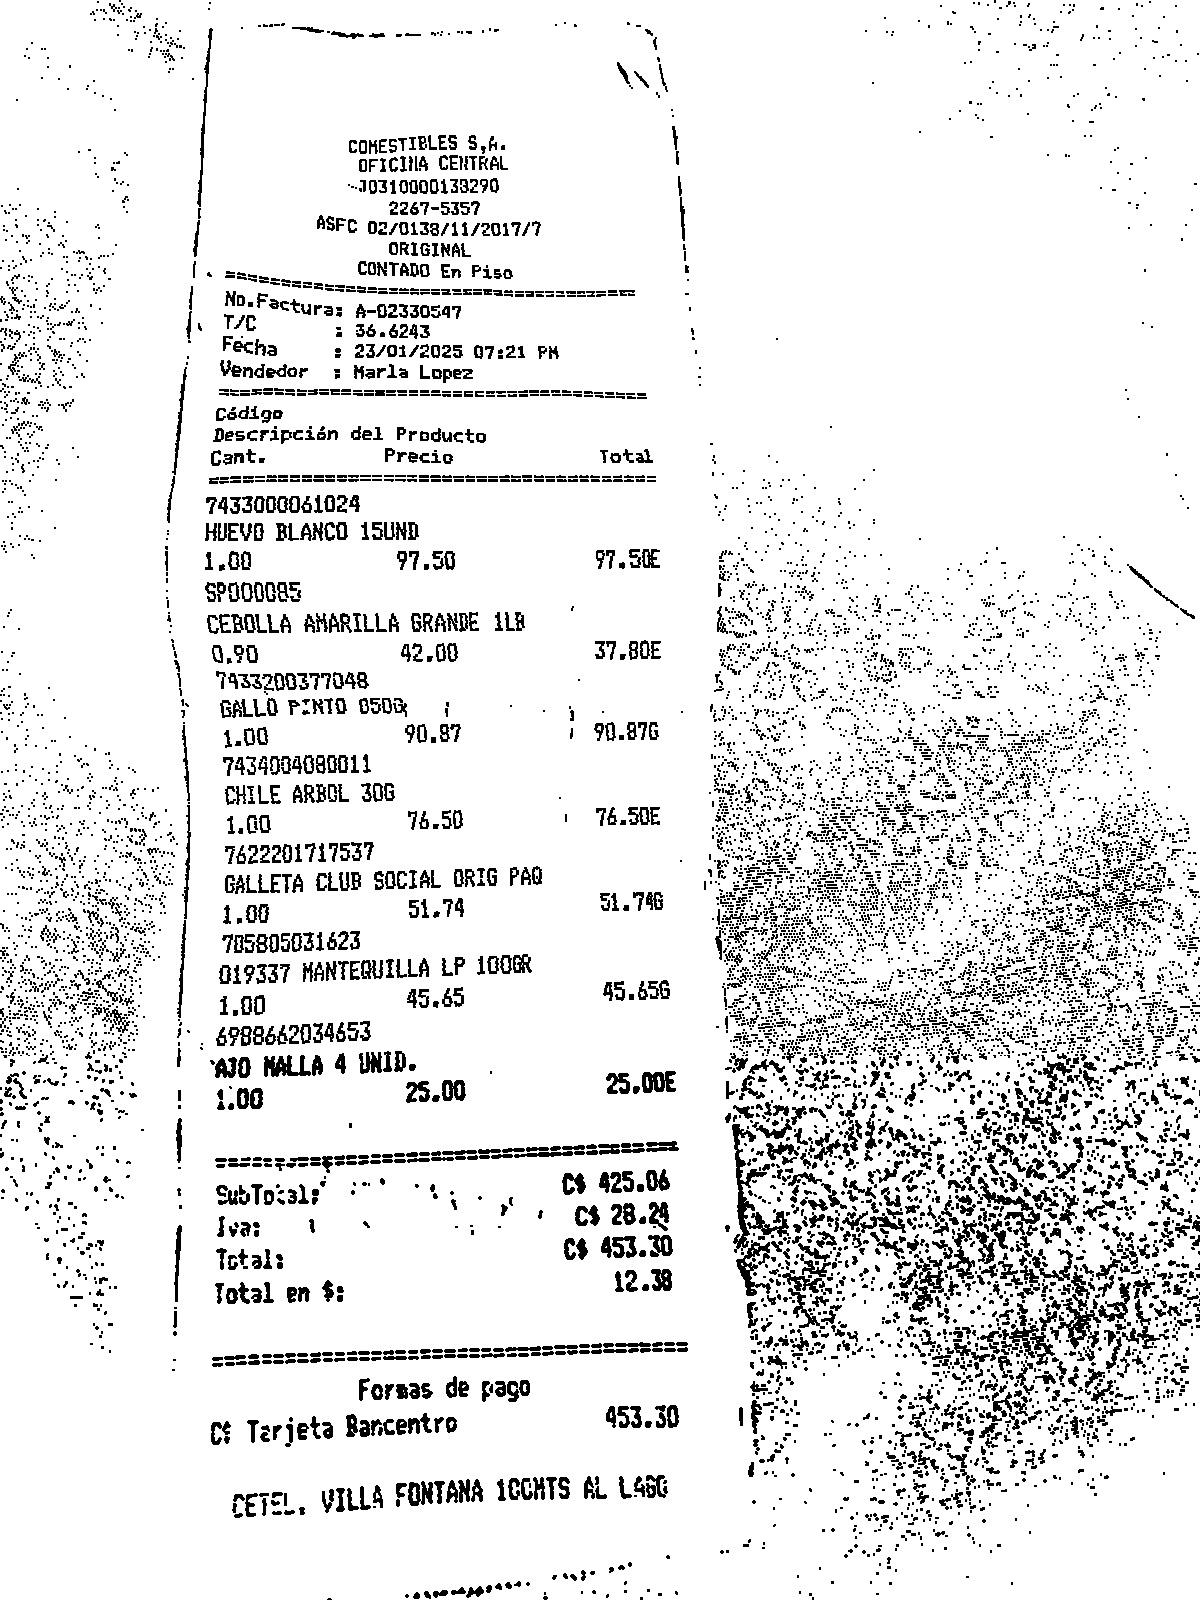
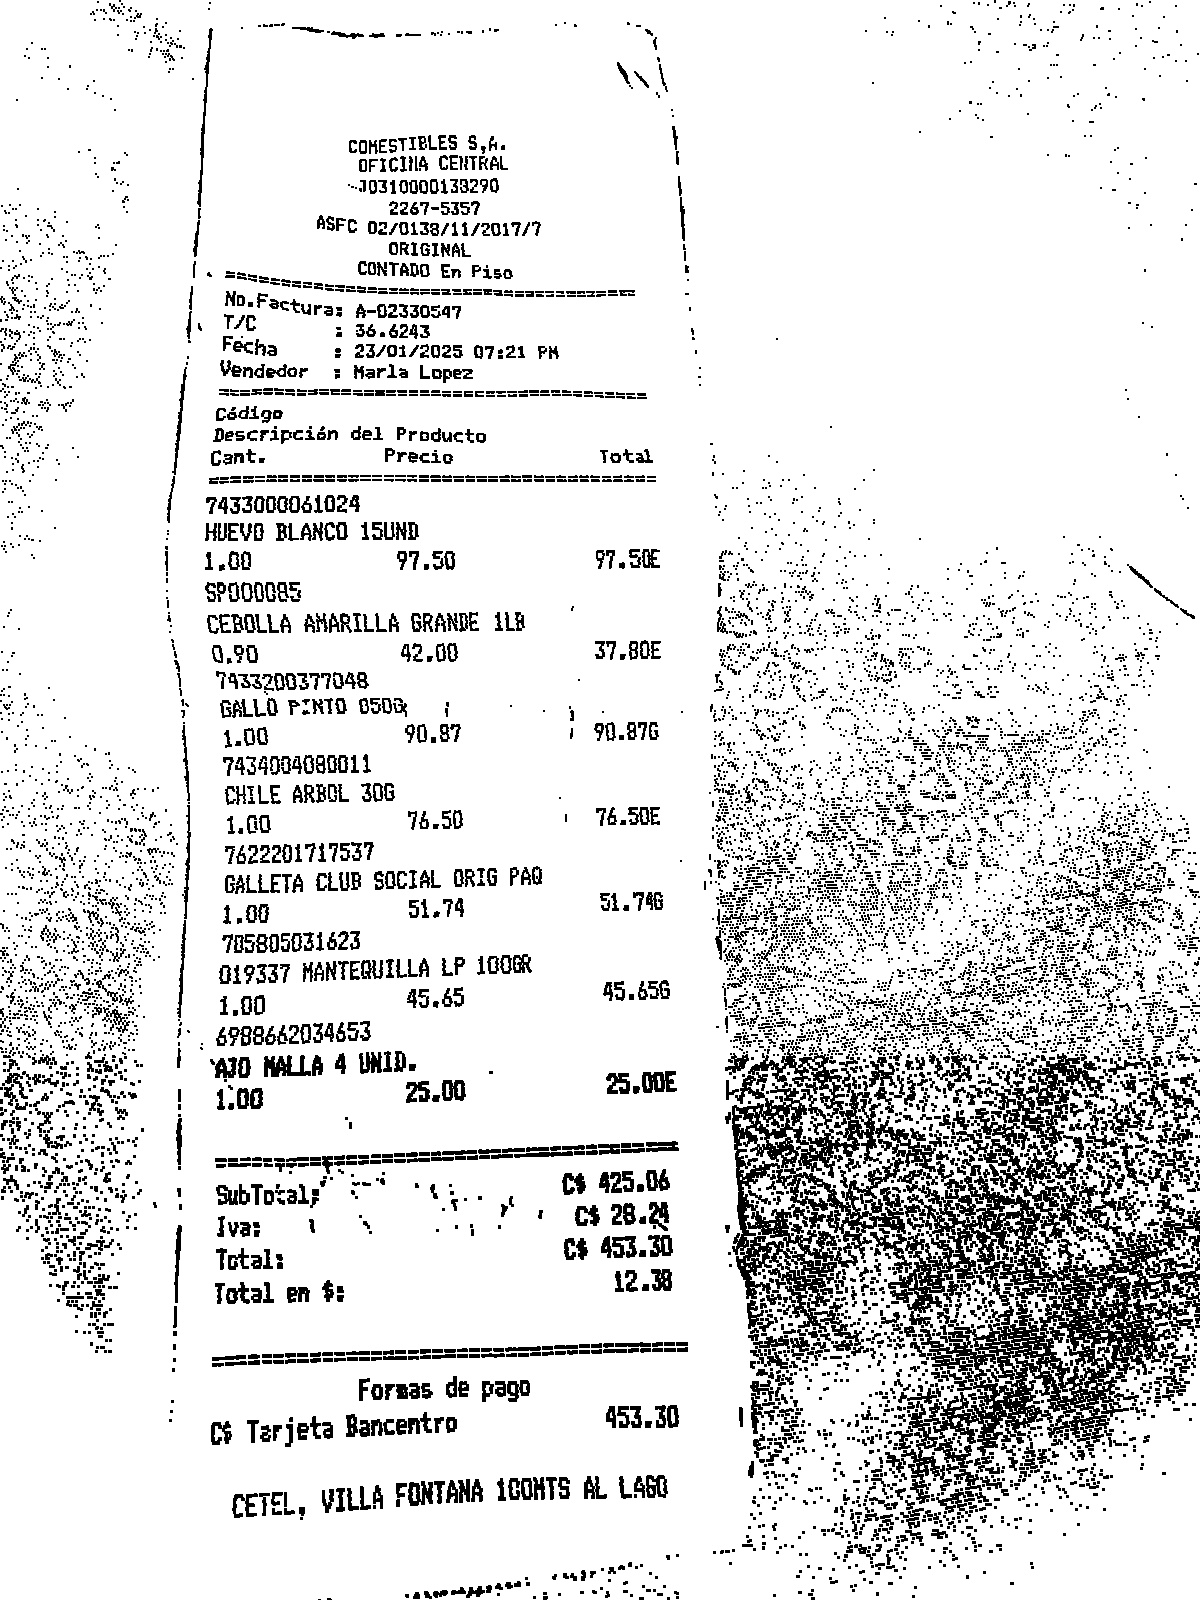
added white list but does not recognize spaces. next step is to recognize spaces in the tesseract output.

Changed region(s): [[0.6167, 0.6562, 1.0, 1.0], [0.0, 0.6562, 0.0925, 0.8438]]

diff --git a/misc/portasReceipt/preprocess.py b/misc/portasReceipt/preprocess.py
@@ -84,7 +84,7 @@ def remove_borders(image):
 
 
 pytesseract.pytesseract.tesseract_cmd= 'C:/Program Files/Tesseract-OCR/tesseract.exe'
-text = pytesseract.image_to_string("finished_portasimage.jpeg", config = '--psm 11 --oem 3 dawg')
+text = pytesseract.image_to_string("finished_portasimage.jpeg", config = '--psm 11 --oem 3 -c tessedit_char_whitelist= 0123456789.$ABCDEFGHIJKLMNOPQRSTUVWXYZ:,/')
 print(text)
 
 original = cv2.imread('portasdecente.jpeg')
@@ -112,7 +112,7 @@ eroded_image = thin_font(no_noise)
 dilated_image = thick_font(no_noise)
 
 ###Inverted-Dilation
-inverted_dilation = thick_font(inverted)
+inverted_dilation = thick_font(inverted) ##Here, neither erotion nor noise removal has been applied.
 
 
 ##Targeted Dilation Bottom Part
@@ -120,7 +120,7 @@ height = inverted_dilation.shape[0]
 bottom_start = int(height * 0.66) 
 invertioncheck = cv2.bitwise_not(inverted_dilation)
 top_zone = inverted_dilation[:bottom_start, :] ##image here is in white background
-bottom_zone = noise_removal(invertioncheck[bottom_start: , :]) ##image here is in black background 
+bottom_zone = invertioncheck[bottom_start: , :] ##image here is in black background 
 kernel = np.ones((2,2), np.uint8)
 
 targeted_dilation = cv2.dilate(bottom_zone, kernel, iterations = 1) ##takes black background white letters to dilate them
@@ -132,8 +132,6 @@ finished_image = np.concatenate((top_zone, reversedilation), axis = 0) ##now wit
 
 ###DESKEWED image
 fixed = deskew(testDeskew)
-cv2.imwrite("reversedTEST.jpeg", reversedagain)
-cv2.imwrite("finished_nonoise.jpeg", finished_noise)
 cv2.imwrite("finished_portasimage.jpeg", finished_image)
 cv2.imwrite("testDESKEW.jpeg", fixed)
 cv2.imwrite("portasDILATED.jpeg", dilated_image)
